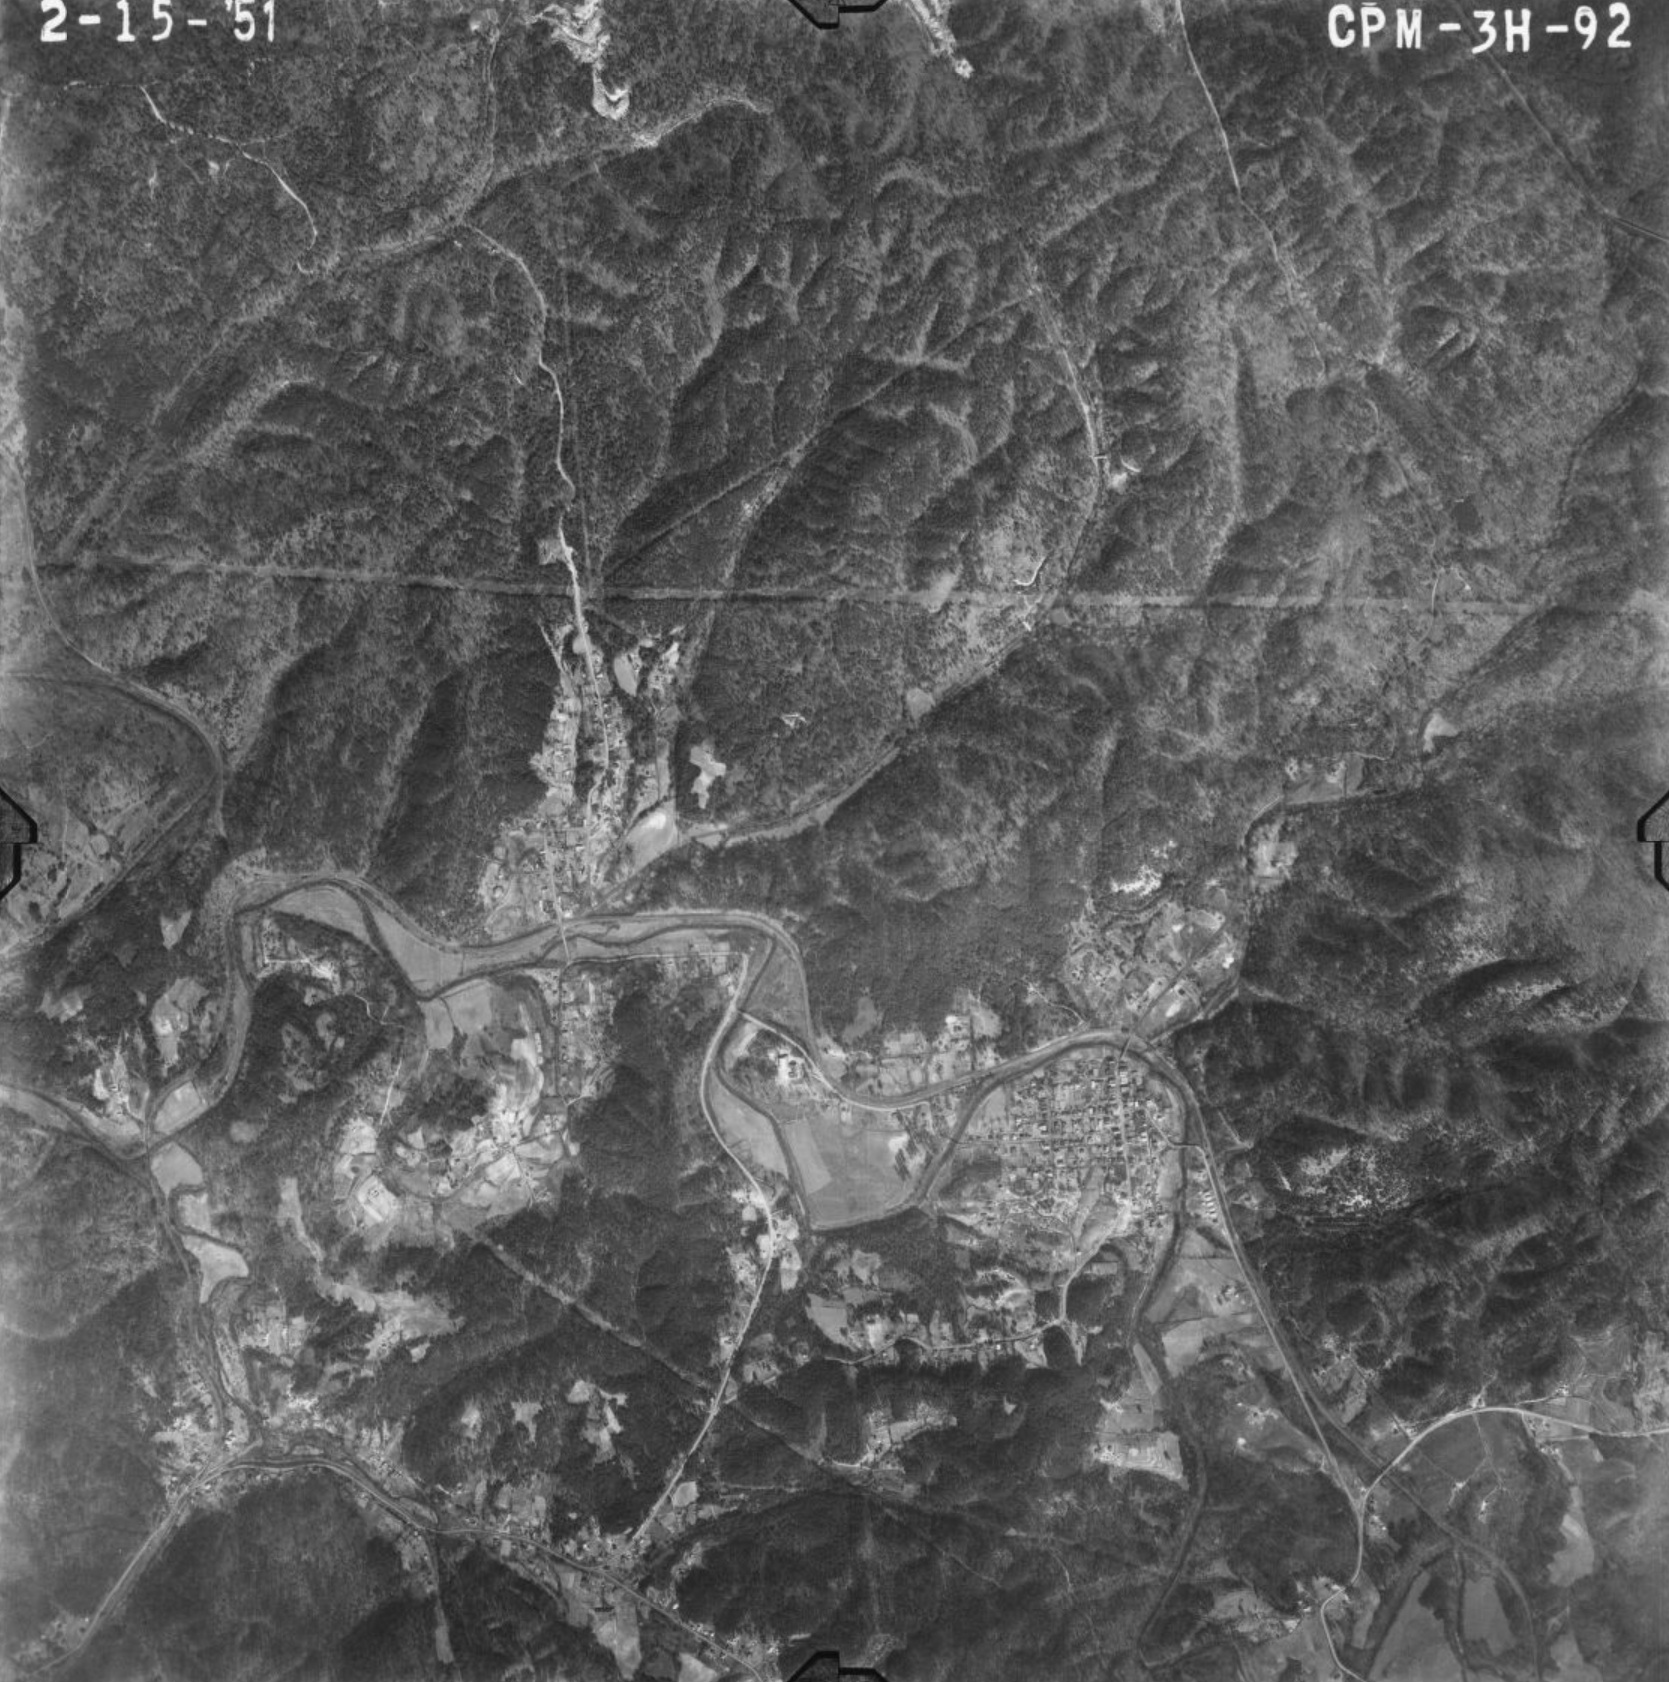
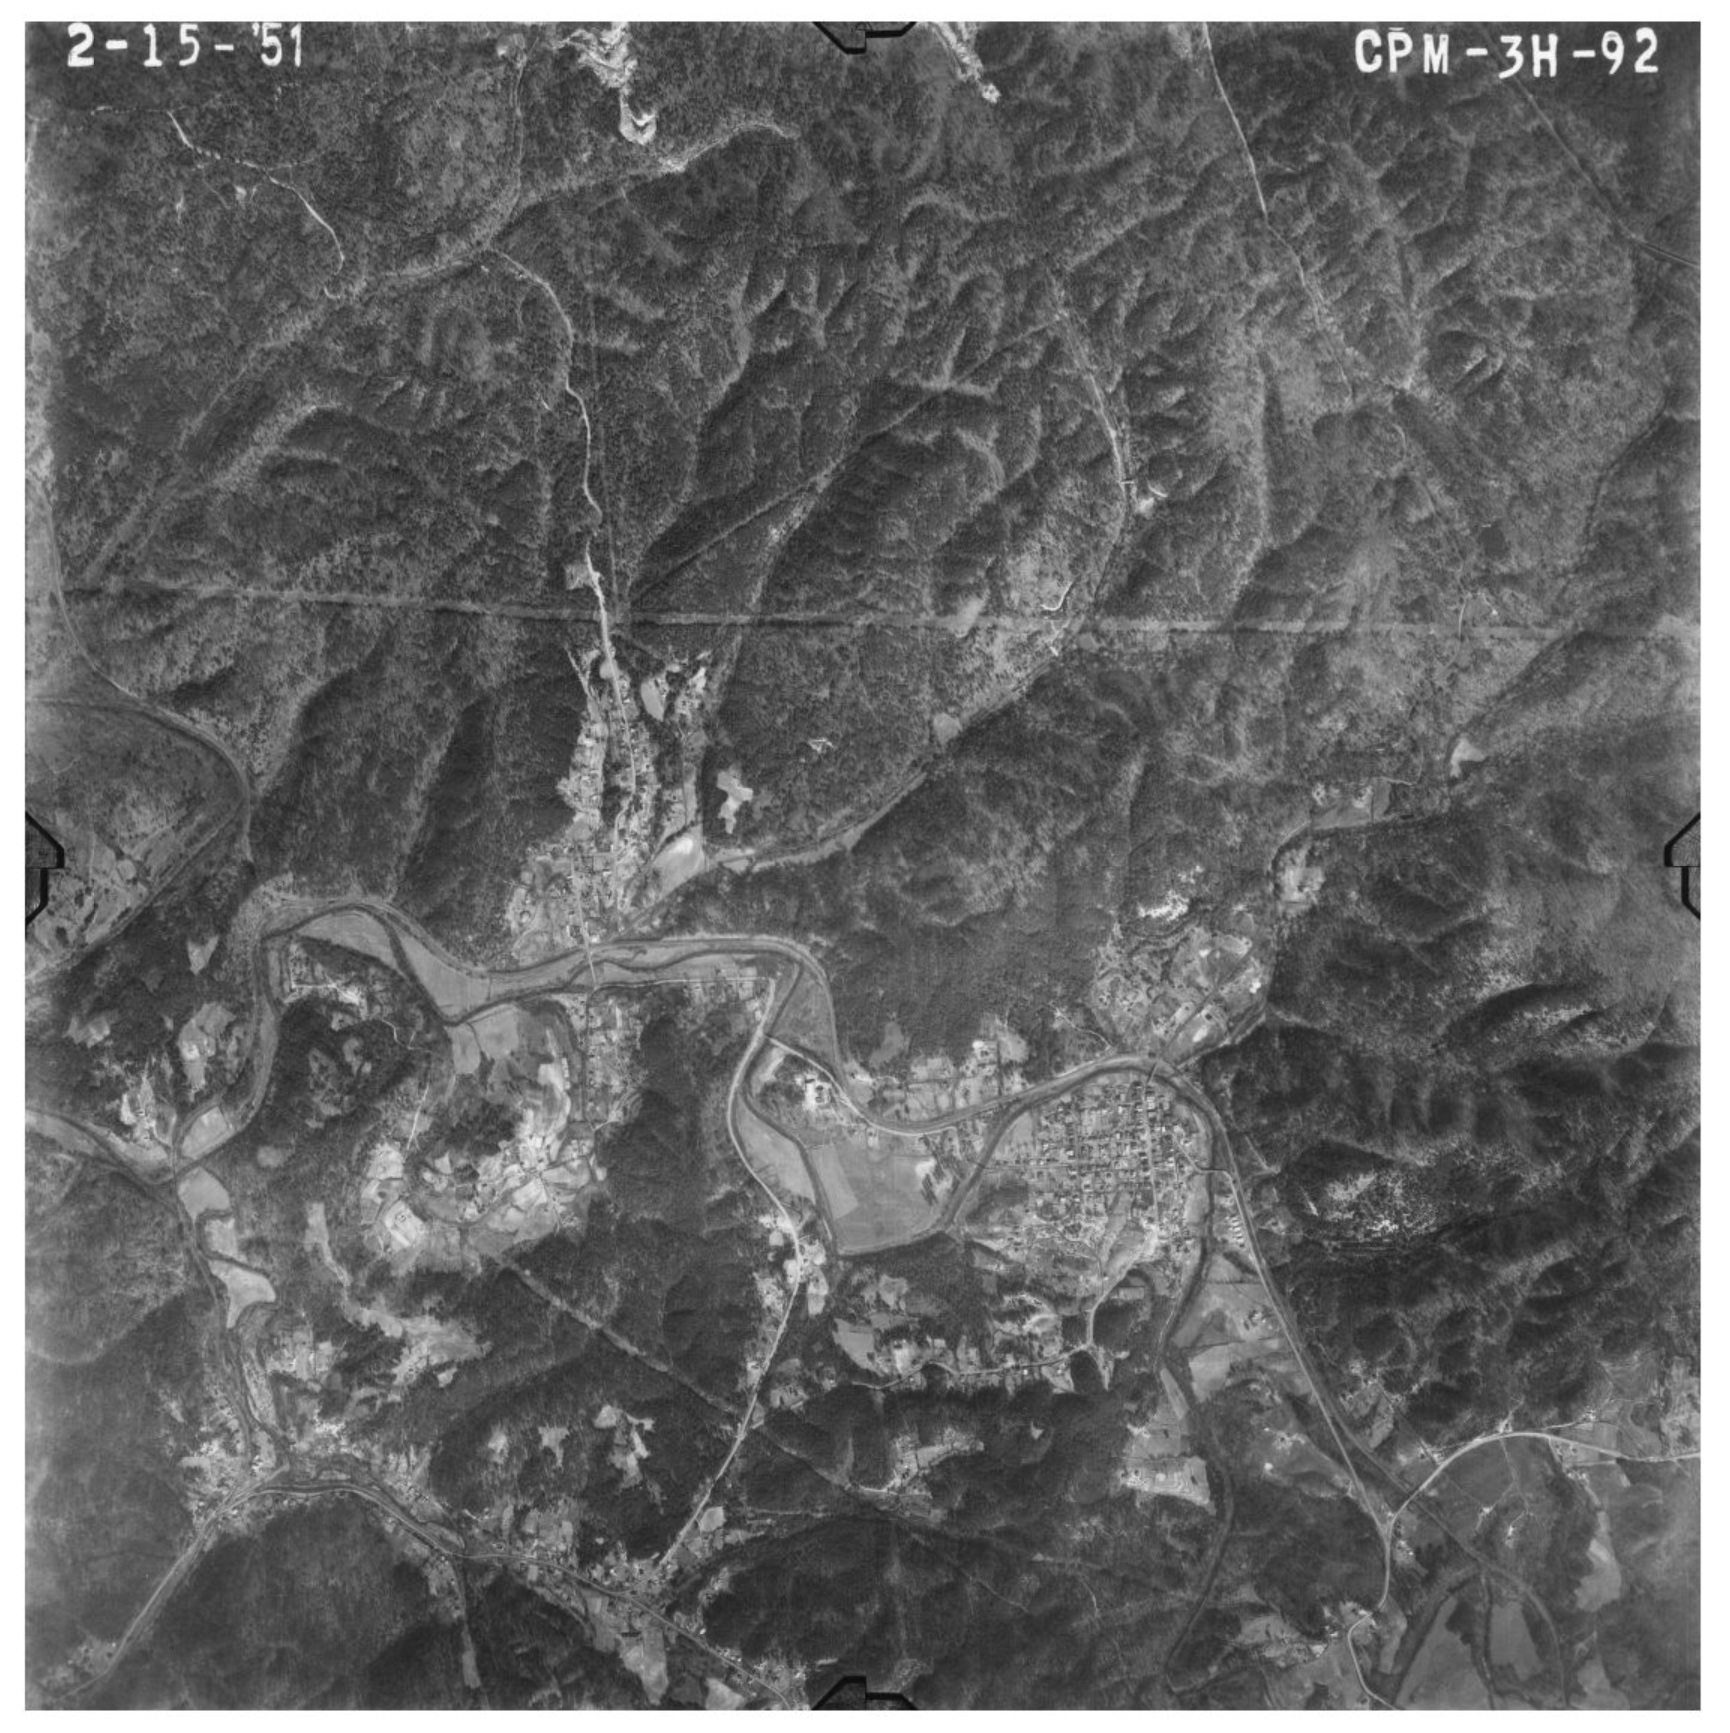
changed cardiff-home.html to index.html

diff --git a/cardiff-common.js b/cardiff-common.js
@@ -39,7 +39,7 @@
   // label: what shows in the nav bar
 
   var TABS = [
-    { id: 'home',     href: 'cardiff-home.html',     label: 'Home' },
+    { id: 'home',     href: 'index.html',            label: 'Home' },
     { id: 'news',     href: 'cardiff-news.html',     label: 'News' },
     { id: 'almanac',  href: 'cardiff-almanac.html',  label: 'Almanac' },
     { id: 'calendar', href: 'cardiff-calendar.html', label: 'Calendar' },
@@ -75,6 +75,7 @@
 
   function detectActiveTab() {
     var page = window.location.pathname.split('/').pop().toLowerCase();
+    if (!page || page === 'index.html') return 'home';
     for (var i = 0; i < TABS.length; i++) {
       if (page === TABS[i].href.toLowerCase()) return TABS[i].id;
     }
@@ -97,7 +98,7 @@
     return '<header class="cardiff-masthead">\n' +
       '  <div class="mh-identity">\n' +
       '    <div class="mh-left-info">Five Mile Creek Watershed<br>Jefferson County, Alabama</div>\n' +
-      '    <div class="mh-brand"><a href="cardiff-home.html" class="mh-brand-link"><div class="mh-brand-name">Cardiff<span class="comma"> &middot; </span>Alabama</div><span class="mh-brand-sub">Incorporated January 1900</span></a></div>\n' +
+      '    <div class="mh-brand"><a href="index.html" class="mh-brand-link"><div class="mh-brand-name">Cardiff<span class="comma"> &middot; </span>Alabama</div><span class="mh-brand-sub">Incorporated January 1900</span></a></div>\n' +
       '    <div class="mh-right-info"><span class="wx-hi" id="mhTemp">&mdash;&deg;F</span> &nbsp;&middot;&nbsp; <span id="mhCond">&mdash;</span><br><span id="mhWind">&mdash;</span></div>\n' +
       '  </div>\n' +
       '  <nav class="mh-tabs">\n' +

diff --git a/cardiff-almanac.html b/cardiff-almanac.html
@@ -174,11 +174,11 @@ body::after{content:"";position:fixed;inset:0;z-index:0;pointer-events:none;back
 <header class="cardiff-masthead">
   <div class="mh-identity">
     <div class="mh-left-info">Five Mile Creek Watershed<br>Jefferson County, Alabama</div>
-    <div class="mh-brand"><a href="cardiff-home.html" class="mh-brand-link"><div class="mh-brand-name">Cardiff<span class="comma"> &middot; </span>Alabama</div><span class="mh-brand-sub">Incorporated January 1900</span></a></div>
+    <div class="mh-brand"><a href="index.html" class="mh-brand-link"><div class="mh-brand-name">Cardiff<span class="comma"> &middot; </span>Alabama</div><span class="mh-brand-sub">Incorporated January 1900</span></a></div>
     <div class="mh-right-info"><span class="wx-hi" id="mhTemp">—°F</span> &nbsp;·&nbsp; <span id="mhCond">—</span><br><span id="mhWind">—</span></div>
   </div>
   <nav class="mh-tabs">
-    <a href="cardiff-home.html" id="tab-home">Home</a>
+    <a href="index.html" id="tab-home">Home</a>
     <a href="cardiff-news.html" id="tab-news">News</a>
     <a href="cardiff-almanac.html" id="tab-almanac" class="active">Almanac</a>
     <a href="cardiff-calendar.html" id="tab-calendar">Calendar</a>

diff --git a/cardiff-guide.html b/cardiff-guide.html
@@ -306,14 +306,14 @@ body.has-mobile-quickbar #scroll-area{padding-bottom:5.4rem;}
 <header class="cardiff-masthead">
   <div class="mh-identity">
     <div class="mh-left-info">Five Mile Creek Watershed<br>Jefferson County, Alabama</div>
-    <div class="mh-brand"><a href="cardiff-home.html" class="mh-brand-link"><div class="mh-brand-name">Cardiff<span class="comma"> &middot; </span>Alabama</div><span class="mh-brand-sub">Incorporated January 1900</span></a></div>
+    <div class="mh-brand"><a href="index.html" class="mh-brand-link"><div class="mh-brand-name">Cardiff<span class="comma"> &middot; </span>Alabama</div><span class="mh-brand-sub">Incorporated January 1900</span></a></div>
     <div class="mh-right-info">
       <span class="wx-hi" id="mhTemp">—°F</span> &nbsp;·&nbsp; <span id="mhCond">—</span><br>
       <span id="mhWind">—</span>
     </div>
   </div>
   <nav class="mh-tabs">
-    <a href="cardiff-home.html" id="tab-home">Home</a>
+    <a href="index.html" id="tab-home">Home</a>
     <a href="cardiff-news.html" id="tab-news">News</a>
     <a href="cardiff-almanac.html" id="tab-almanac">Almanac</a>
     <a href="cardiff-calendar.html" id="tab-calendar">Calendar</a>

diff --git a/cardiff-launch-checklist.md b/cardiff-launch-checklist.md
@@ -10,7 +10,7 @@ Inside that repo, keep the website simple:
 
 ```text
 /
-  cardiff-home.html
+  index.html
   cardiff-news.html
   cardiff-almanac.html
   cardiff-guide.html